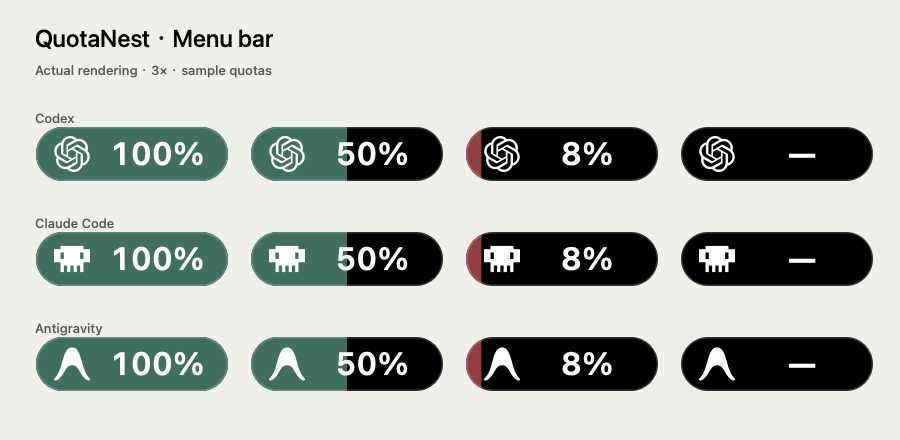
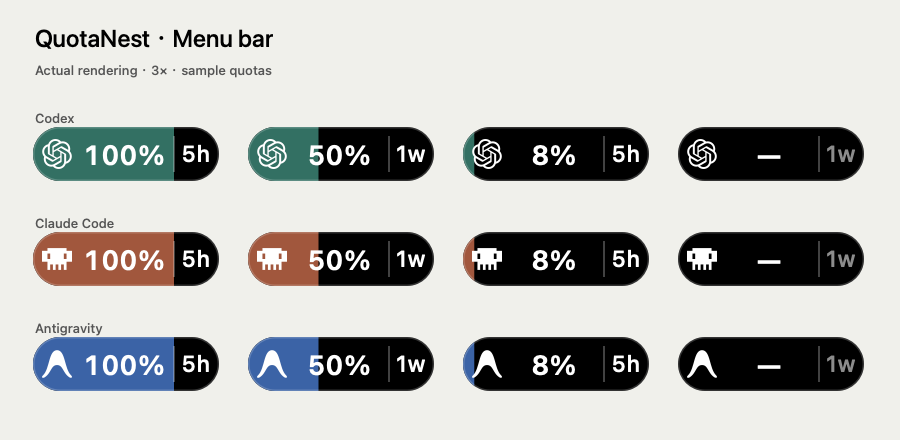
feat: compact period switch and provider accent fills

diff --git a/Sources/AppController.swift b/Sources/AppController.swift
@@ -1,7 +1,7 @@
 import AppKit
 final class AppController: NSObject, NSApplicationDelegate {
     private var status: NSStatusItem!
-    private let capsule = CapsuleView(frame: NSRect(x: 0, y: 0, width: 68, height: 24))
+    private let capsule = CapsuleView(frame: NSRect(x: 0, y: 0, width: 64, height: 24))
     private let popover = NSPopover()
     private let client = CodexClient()
     private var timer: Timer?
@@ -9,6 +9,16 @@ final class AppController: NSObject, NSApplicationDelegate {
     private let antigravityClient = AntigravityQuotaClient()
     private var readings = Dictionary(uniqueKeysWithValues: QuotaProviderID.allCases.map { ($0, ProviderReading()) })
     private var selectedProvider = QuotaProviderID(rawValue: UserDefaults.standard.string(forKey: "selectedProvider") ?? "") ?? .codex
+    private func preferredPeriod(for provider: QuotaProviderID) -> QuotaPeriod {
+        QuotaPeriod(rawValue: UserDefaults.standard.string(forKey: "quotaPeriod." + provider.rawValue) ?? "") ?? .short
+    }
+    private var displayedPeriod: QuotaPeriod? { reading.period(for: selectedProvider, preferred: preferredPeriod(for: selectedProvider)) }
+    private func switchPeriod() {
+        let periods = reading.periods(for: selectedProvider)
+        guard periods.count > 1, let current = displayedPeriod, let index = periods.firstIndex(of: current) else { return }
+        UserDefaults.standard.set(periods[(index + 1) % periods.count].rawValue, forKey: "quotaPeriod." + selectedProvider.rawValue)
+        render(); writeDiagnostics()
+    }
     private var reading: ProviderReading { readings[selectedProvider]! }
     private var snapshot: QuotaSnapshot? { reading.snapshot }
     private var lastSuccess: Date? { reading.lastSuccess }
@@ -31,12 +41,13 @@ final class AppController: NSObject, NSApplicationDelegate {
            !Bundle.main.bundlePath.hasPrefix("/Volumes/") {
             try? LoginItemManager.setEnabled(true)
         }
-        status = NSStatusBar.system.statusItem(withLength: 68)
+        status = NSStatusBar.system.statusItem(withLength: 64)
         if let button = status.button {
             capsule.frame = button.bounds; capsule.autoresizingMask = [.width, .height]
             button.addSubview(capsule)
         }
         capsule.action = { [weak self] in self?.togglePopover() }
+        capsule.periodAction = { [weak self] in self?.switchPeriod() }
         popover.behavior = .transient
         popover.animates = true
         let timer = Timer(timeInterval: interval, repeats: true) { [weak self] _ in self?.refresh() }
@@ -114,7 +125,9 @@ final class AppController: NSObject, NSApplicationDelegate {
         for provider in QuotaProviderID.allCases {
             let entry = readings[provider]!
             var value: [String: Any] = ["successfulRefreshes": entry.successes, "refreshing": entry.refreshing]
-            if let remaining = entry.remaining(for: provider) { value["remaining"] = remaining }
+            let period = entry.period(for: provider, preferred: preferredPeriod(for: provider))
+            value["period"] = period?.rawValue ?? "unknown"
+            if let remaining = entry.window(for: provider, period: period)?.remaining { value["remaining"] = remaining }
             if let date = entry.lastSuccess { value["lastSuccess"] = ISO8601DateFormatter().string(from: date) }
             if let error = entry.error { value["error"] = error }
             providers[provider.rawValue] = value
@@ -123,13 +136,20 @@ final class AppController: NSObject, NSApplicationDelegate {
         if let data = try? JSONSerialization.data(withJSONObject: value, options: [.prettyPrinted, .sortedKeys]) { try? data.write(to: stateDirectory.appendingPathComponent("status.json"), options: .atomic) }
     }
     private func render() {
-        let remaining = reading.remaining(for: selectedProvider)
+        let period = displayedPeriod
+        let remaining = reading.window(for: selectedProvider, period: period)?.remaining
+        capsule.periodText = reading.periodLabel(for: selectedProvider, period: period)
+        capsule.canSwitchPeriod = reading.periods(for: selectedProvider).count > 1
         capsule.remaining = remaining; capsule.stale = errorMessage != nil
         let value = remaining.map { String(format: "%.0f%%", floor($0)) + (errorMessage == nil ? "" : "!") } ?? (refreshing ? "···" : "—")
         capsule.provider = selectedProvider
         capsule.text = value
-        let title = "\(selectedProvider.title)\(selectedProvider == .antigravity ? " Gemini" : "") 剩余额度 \(value)" + (errorMessage == nil ? "" : "，查询失败或数据过期")
-        capsule.setAccessibilityLabel(title); capsule.toolTip = title
+        let title = "\(selectedProvider.title)\(selectedProvider == .antigravity ? " Gemini" : "") \(capsule.periodText) 剩余额度 \(value)" + (errorMessage == nil ? "" : "，查询失败或数据过期")
+        capsule.detailButton.setAccessibilityLabel(title + "，打开详情")
+        capsule.detailButton.toolTip = title
+        let periodHelp = "当前 " + capsule.periodText + (capsule.canSwitchPeriod ? "，点击切换小时 / 周额度" : "，暂无其他有效周期")
+        capsule.periodButton.setAccessibilityLabel(periodHelp)
+        capsule.periodButton.toolTip = periodHelp
         if popover.isShown { buildPopover() }
     }
     private func togglePopover() {
@@ -156,7 +176,7 @@ final class AppController: NSObject, NSApplicationDelegate {
         stack.addArrangedSubview(label(selectedProvider.title, size: 16, bold: true))
         if let selected = snapshot?.selected {
             let source = selectedProvider == .codex ? (selected.1.planType ?? "Codex 登录账号") : selectedProvider == .claude ? "本机 Claude 官方登录" : "本机 Antigravity CLI 登录"
-            stack.addArrangedSubview(label(source + (selectedProvider == .antigravity ? " · 胶囊显示 Gemini 余量" : " · 显示最低余量"), color: .secondaryLabelColor))
+            stack.addArrangedSubview(label(source + " · 胶囊：" + (selectedProvider == .antigravity ? "Gemini " : "") + reading.periodLabel(for: selectedProvider, period: displayedPeriod), color: .secondaryLabelColor))
         }
         if let errorMessage { stack.addArrangedSubview(label("⚠ \(errorMessage)" + (snapshot == nil ? "" : "\n当前百分比为上次成功查询结果。"), color: .systemOrange)) }
         if let snapshot {

diff --git a/Sources/CapsuleView.swift b/Sources/CapsuleView.swift
@@ -5,19 +5,45 @@ final class CapsuleView: NSView {
     var text = "—" { didSet { needsDisplay = true } }
     var remaining: Double? { didSet { needsDisplay = true } }
     var stale = false { didSet { needsDisplay = true } }
+    var periodText = "1w" { didSet { needsDisplay = true } }
+    var canSwitchPeriod = false { didSet { periodButton.isEnabled = canSwitchPeriod; needsDisplay = true } }
+    var periodAction: (() -> Void)?
+    let detailButton = NSButton()
+    let periodButton = NSButton()
+    var dividerX: CGFloat { bounds.width - 16 }
     var action: (() -> Void)?
 
     override init(frame: NSRect) {
         super.init(frame: frame)
-        setAccessibilityElement(true)
-        setAccessibilityRole(.button)
+        setAccessibilityElement(false)
+        for button in [detailButton, periodButton] {
+            button.title = ""; button.isBordered = false; button.isTransparent = true
+            button.target = self; addSubview(button)
+        }
+        detailButton.action = #selector(openDetails)
+        periodButton.action = #selector(switchPeriod)
+        periodButton.setAccessibilityLabel("切换额度周期")
+        periodButton.isEnabled = false
+        layoutButtons()
     }
     required init?(coder: NSCoder) { fatalError() }
-    override func mouseDown(with event: NSEvent) { action?() }
-    override func accessibilityPerformPress() -> Bool { action?(); return true }
+    @objc private func openDetails() { action?() }
+    @objc private func switchPeriod() { if canSwitchPeriod { periodAction?() } }
+    private func layoutButtons() {
+        detailButton.frame = CGRect(x: 0, y: 0, width: dividerX, height: bounds.height)
+        periodButton.frame = CGRect(x: dividerX, y: 0, width: 16, height: bounds.height)
+    }
+    override func layout() { super.layout(); layoutButtons() }
+    var accentColor: NSColor {
+        switch provider {
+        case .codex: return NSColor(srgbRed: 0.20, green: 0.44, blue: 0.39, alpha: 1)
+        case .claude: return NSColor(srgbRed: 0.63, green: 0.34, blue: 0.24, alpha: 1)
+        case .antigravity: return NSColor(srgbRed: 0.23, green: 0.39, blue: 0.65, alpha: 1)
+        }
+    }
 
     override func draw(_ dirtyRect: NSRect) {
-        let rect = CGRect(x: 2, y: (bounds.height - 18) / 2, width: bounds.width - 4, height: 18)
+        let rect = CGRect(x: 1, y: (bounds.height - 18) / 2, width: bounds.width - 2, height: 18)
         let shape = NSBezierPath(roundedRect: rect, xRadius: 9, yRadius: 9)
         NSColor.black.setFill()
         shape.fill()
@@ -26,13 +52,11 @@ final class CapsuleView: NSView {
             let fraction = min(100, max(0, remaining)) / 100
             let color: NSColor
             if stale { color = NSColor(srgbRed: 0.30, green: 0.32, blue: 0.35, alpha: 1) }
-            else if remaining < 10 { color = NSColor(srgbRed: 0.57, green: 0.25, blue: 0.26, alpha: 1) }
-            else if remaining < 20 { color = NSColor(srgbRed: 0.50, green: 0.36, blue: 0.19, alpha: 1) }
-            else { color = NSColor(srgbRed: 0.25, green: 0.43, blue: 0.38, alpha: 1) }
+            else { color = accentColor }
             NSGraphicsContext.saveGraphicsState()
             shape.addClip()
             color.setFill()
-            CGRect(x: rect.minX, y: rect.minY, width: rect.width * fraction, height: rect.height).fill()
+            CGRect(x: rect.minX, y: rect.minY, width: (dividerX - rect.minX) * fraction, height: rect.height).fill()
             NSGraphicsContext.restoreGraphicsState()
         }
 
@@ -41,15 +65,26 @@ final class CapsuleView: NSView {
         let outline = NSBezierPath(roundedRect: rect.insetBy(dx: 0.25, dy: 0.25), xRadius: 8.75, yRadius: 8.75)
         outline.lineWidth = 0.5
         outline.stroke()
-        ProviderMark.draw(provider, in: CGRect(x: rect.minX + 6, y: rect.midY - 6, width: 12, height: 12))
+        ProviderMark.draw(provider, in: CGRect(x: rect.minX + 3, y: rect.midY - 5, width: 10, height: 10))
 
         let attrs: [NSAttributedString.Key: Any] = [
-            .font: NSFont.monospacedDigitSystemFont(ofSize: 10.5, weight: .semibold),
+            .font: NSFont.monospacedDigitSystemFont(ofSize: 9, weight: .semibold),
             .foregroundColor: NSColor.white
         ]
         let label = text as NSString
         let size = label.size(withAttributes: attrs)
-        let textRect = CGRect(x: rect.minX + 21, y: rect.minY, width: rect.width - 25, height: rect.height)
+        let textRect = CGRect(x: rect.minX + 15, y: rect.minY, width: dividerX - rect.minX - 16, height: rect.height)
+        let separator = NSBezierPath()
+        separator.move(to: CGPoint(x: dividerX, y: rect.minY + 3))
+        separator.line(to: CGPoint(x: dividerX, y: rect.maxY - 3))
+        NSColor.white.withAlphaComponent(0.35).setStroke()
+        separator.lineWidth = 0.5; separator.stroke()
+        let periodAttrs: [NSAttributedString.Key: Any] = [
+            .font: NSFont.systemFont(ofSize: periodText.count > 3 ? 6 : 7.5, weight: .medium),
+            .foregroundColor: NSColor.white.withAlphaComponent(canSwitchPeriod ? 1 : 0.55)
+        ]
+        let periodSize = (periodText as NSString).size(withAttributes: periodAttrs)
+        (periodText as NSString).draw(at: CGPoint(x: (dividerX + rect.maxX) / 2 - periodSize.width / 2, y: rect.midY - periodSize.height / 2), withAttributes: periodAttrs)
         label.draw(at: CGPoint(x: textRect.midX - size.width / 2, y: rect.midY - size.height / 2), withAttributes: attrs)
     }
 }

diff --git a/Tests/Capsule/main.swift b/Tests/Capsule/main.swift
@@ -5,11 +5,11 @@ func bitmap(_ width: Int, _ height: Int) -> NSBitmapImageRep {
     NSBitmapImageRep(bitmapDataPlanes: nil, pixelsWide: width, pixelsHigh: height, bitsPerSample: 8, samplesPerPixel: 4, hasAlpha: true, isPlanar: false, colorSpaceName: .deviceRGB, bytesPerRow: 0, bitsPerPixel: 0)!
 }
 func render(_ amount: Double?, stale: Bool = false) -> NSBitmapImageRep {
-    let rep = bitmap(136, 48)
+    let rep = bitmap(128, 48)
     NSGraphicsContext.saveGraphicsState()
     NSGraphicsContext.current = NSGraphicsContext(bitmapImageRep: rep)
     NSGraphicsContext.current!.cgContext.scaleBy(x: 2, y: 2)
-    let view = CapsuleView(frame: NSRect(x: 0, y: 0, width: 68, height: 24))
+    let view = CapsuleView(frame: NSRect(x: 0, y: 0, width: 64, height: 24))
     view.remaining = amount; view.stale = stale; view.text = ""
     view.draw(view.bounds)
     NSGraphicsContext.restoreGraphicsState()
@@ -22,11 +22,11 @@ func black(_ image: NSBitmapImageRep, _ x: Int) -> Bool {
 // Sample away from the provider mark and rounded edge; validate actual rendered pixels.
 assert(black(render(0), 40))
 assert(!black(render(100), 40))
-assert(!black(render(50), 30) && black(render(50), 38))
-assert(!black(render(75), 45) && black(render(75), 55))
+assert(!black(render(50), 22) && black(render(50), 28))
+assert(!black(render(75), 34) && black(render(75), 40))
 assert(black(render(-10), 40) && !black(render(110), 40))
 assert(black(render(nil), 40) && black(render(.nan), 40))
-assert(!black(render(50, stale: true), 30) && black(render(50, stale: true), 38))
+assert(!black(render(50, stale: true), 22) && black(render(50, stale: true), 28))
 print("PASS capsule: 0/50/75/100%, clamping, unknown, invalid and stale pixel coverage")
 let rep = bitmap(900, 440)
 NSGraphicsContext.saveGraphicsState()
@@ -47,8 +47,9 @@ for (row, provider) in QuotaProviderID.allCases.enumerated() {
         let ctx = NSGraphicsContext.current!.cgContext
         ctx.translateBy(x: CGFloat(30 + col * 215), y: y - 15)
         ctx.scaleBy(x: 3, y: 3)
-        let view = CapsuleView(frame: NSRect(x: 0, y: 0, width: 68, height: 24))
+        let view = CapsuleView(frame: NSRect(x: 0, y: 0, width: 64, height: 24))
         view.provider = provider; view.remaining = amount
+        view.periodText = col % 2 == 0 ? "5h" : "1w"; view.canSwitchPeriod = amount != nil
         view.text = amount.map { String(format: "%.0f%%", $0) } ?? "—"
         view.draw(view.bounds)
         NSGraphicsContext.restoreGraphicsState()
@@ -56,3 +57,19 @@ for (row, provider) in QuotaProviderID.allCases.enumerated() {
 }
 NSGraphicsContext.restoreGraphicsState()
 try rep.representation(using: .png, properties: [:])!.write(to: URL(fileURLWithPath: ".build/capsule-preview.png"))
+
+let interactive = CapsuleView(frame: CGRect(x: 0, y: 0, width: 64, height: 24))
+var details = 0, switches = 0
+interactive.action = { details += 1 }; interactive.periodAction = { switches += 1 }
+interactive.canSwitchPeriod = true
+interactive.detailButton.performClick(nil)
+interactive.periodButton.performClick(nil)
+assert(details == 1 && switches == 1)
+interactive.canSwitchPeriod = false
+interactive.periodButton.performClick(nil)
+assert(switches == 1)
+assert(interactive.detailButton.frame.maxX == interactive.periodButton.frame.minX)
+assert(interactive.periodButton.frame.maxX == 64)
+let colors = QuotaProviderID.allCases.map { provider -> NSColor in interactive.provider = provider; return interactive.accentColor }
+assert(colors[0] != colors[1] && colors[1] != colors[2] && colors[0] != colors[2])
+print("PASS independent detail/period buttons, disabled switch, 64-point layout and provider accents")

diff --git a/Sources/ProviderState.swift b/Sources/ProviderState.swift
@@ -20,3 +20,41 @@ struct ProviderReading {
         return snapshot?.buckets.compactMap { $0.remaining }.min()
     }
 }
+
+enum QuotaPeriod: String, CaseIterable {
+    case short, weekly
+    func includes(_ window: QuotaWindow) -> Bool {
+        guard let minutes = window.minutes else { return false }
+        return self == .weekly ? minutes == 10080 : minutes > 0 && minutes < 1440
+    }
+}
+extension ProviderReading {
+    func windows(for provider: QuotaProviderID) -> [QuotaWindow] {
+        let buckets: [QuotaBucket]
+        switch provider {
+        case .codex: buckets = snapshot?.selected.map { [$0.1] } ?? []
+        case .claude: buckets = snapshot?.buckets ?? []
+        case .antigravity:
+            buckets = snapshot?.buckets.filter {
+                $0.limitName?.range(of: #"\bgemini\b"#, options: [.regularExpression, .caseInsensitive]) != nil
+            } ?? []
+        }
+        return buckets.flatMap { $0.windows }.filter { $0.remaining != nil }
+    }
+    func periods(for provider: QuotaProviderID) -> [QuotaPeriod] {
+        QuotaPeriod.allCases.filter { period in windows(for: provider).contains(where: period.includes) }
+    }
+    func period(for provider: QuotaProviderID, preferred: QuotaPeriod) -> QuotaPeriod? {
+        let available = periods(for: provider)
+        return available.contains(preferred) ? preferred : available.first
+    }
+    func window(for provider: QuotaProviderID, period: QuotaPeriod?) -> QuotaWindow? {
+        guard let period else { return nil }
+        return windows(for: provider).filter(period.includes).min { ($0.remaining ?? 100) < ($1.remaining ?? 100) }
+    }
+    func periodLabel(for provider: QuotaProviderID, period: QuotaPeriod?) -> String {
+        guard let period, let minutes = window(for: provider, period: period)?.minutes else { return "—" }
+        if period == .weekly { return "1w" }
+        return minutes % 60 == 0 ? "\(minutes / 60)h" : "\(minutes)m"
+    }
+}

diff --git a/Tests/Providers/main.swift b/Tests/Providers/main.swift
@@ -24,3 +24,13 @@ expect(ProviderReading(snapshot: mixed).remaining(for: .antigravity) == 40, "Gem
 let noGemini = QuotaSnapshot(rateLimits: nil, rateLimitsByLimitId: ["other": group("Claude and GPT models", 20)])
 expect(ProviderReading(snapshot: noGemini).remaining(for: .antigravity) == nil, "Missing Gemini is unknown instead of another model quota")
 expect(ProviderReading(snapshot: mixed).remaining(for: .claude) == 0, "Claude selection retains existing aggregation")
+
+let split = ProviderReading(snapshot: mixed)
+expect(split.window(for: .antigravity, period: .short)?.remaining == 40, "Short selection uses Gemini hours only")
+expect(split.window(for: .antigravity, period: .weekly)?.remaining == 70, "Weekly selection excludes hour limits and other families")
+expect(split.periodLabel(for: .antigravity, period: .short) == "5h", "Period label follows actual window duration")
+expect(split.periods(for: .antigravity) == [.short, .weekly], "Two valid periods support switching")
+let weeklyOnly = ProviderReading(snapshot: agy)
+expect(weeklyOnly.period(for: .antigravity, preferred: .short) == .weekly, "Disabled hours fall back to available weekly period")
+expect(weeklyOnly.periods(for: .antigravity) == [.weekly], "Disabled hour window is not switchable")
+expect(ProviderReading(snapshot: noGemini).periods(for: .antigravity).isEmpty, "Other families cannot provide Gemini switch periods")

diff --git a/Sources/CodexClient.swift b/Sources/CodexClient.swift
@@ -37,7 +37,7 @@ final class CodexClient {
                     p.environment = env
                     try p.run()
                     self.process = p; self.input = stdin.fileHandleForWriting; self.output = stdout.fileHandleForReading
-                    _ = try self.request("initialize", params: ["clientInfo": ["name": "codex_quota", "title": "QuotaNest", "version": "1.4.1"]], deadline: deadline)
+                    _ = try self.request("initialize", params: ["clientInfo": ["name": "codex_quota", "title": "QuotaNest", "version": "1.5.0"]], deadline: deadline)
                     try self.send(["method": "initialized"])
                 }
                 let value = try self.request("account/rateLimits/read", params: nil, deadline: deadline)

diff --git a/README.md b/README.md
@@ -28,7 +28,7 @@ QuotaNest 是一款轻量的原生 macOS 菜单栏应用，将 **Codex、Claude 
 
 **系统要求：macOS 13 或更新版本。** DMG 内含 Intel / Apple Silicon 通用应用；对应平台的官方 CLI 需要另外安装并登录。
 
-1. 在本仓库 **[Releases](https://github.com/bloodkilory/QuotaNest/releases/latest)** 页面下载 `QuotaNest-1.4.1-universal.dmg`。
+1. 在本仓库 **[Releases](https://github.com/bloodkilory/QuotaNest/releases/latest)** 页面下载 `QuotaNest-1.5.0-universal.dmg`。
 2. 打开 DMG，将 **QuotaNest.app** 拖到 **Applications**。
 3. 推出磁盘映像，从“应用程序”打开 QuotaNest。
 4. 在菜单栏找到带平台图标的百分比胶囊，完成下面的账号登录后等待刷新。
@@ -39,7 +39,7 @@ QuotaNest 是一款轻量的原生 macOS 菜单栏应用，将 **Codex、Claude 
 下载后可对照 Release 中的 `SHA256SUMS.txt` 检查文件完整性：
 
 ```sh
-shasum -a 256 ~/Downloads/QuotaNest-1.4.1-universal.dmg
+shasum -a 256 ~/Downloads/QuotaNest-1.5.0-universal.dmg
 ```
 
 ## 从 CodexQuota 升级
@@ -69,13 +69,16 @@ OpenAI 标志、Claude Code 像素机器人和 Antigravity 标志替代字母缩
 | 平台图标 + `82%` | 当前所选平台的剩余百分比（示例值） |
 | 彩色填充 / 黑色背景 | 剩余 / 已用比例；每次查询后同步更新 |
 | 灰色填充 | 刷新失败时保留上次比例，并显示 `!` |
-| 绿色 / 橙色 / 红色 | 余量 ≥ 20% / 10%–20% / < 10% |
+| 青绿 / 陶土橙 / 蓝色 | Codex / Claude Code / Antigravity 的平台强调色 |
+| 右侧 `5h` / `1w` | 当前额度周期；点击切换小时 / 周额度 |
 | `!` | 本次刷新失败，显示的是上次成功的数据 |
 | `—` | 尚未获取到有效额度 |
 
-点击胶囊后，可切换平台、查看分组额度、重置时间、刷新状态，或点击 **立即刷新**。时间按系统当前时区显示。应用启动、电脑唤醒时也会刷新；常规刷新间隔为 180 秒，系统调度和网络可能造成延迟。
+胶囊宽度为 64 点。点击右侧竖线后的周期按钮可立即切换最近查询到的小时 / 周额度，各平台分别记住选择；首次优先小时周期，只有一种有效周期时按钮不可切换。左侧彩色进度只表示当前周期，黑色为已用，右侧按钮保持黑色。
 
-**百分比怎么计算？** Codex 使用主额度桶中各有效窗口的最低剩余值；Claude 使用各有效额度组的最低剩余值；Antigravity 默认仅显示 **Gemini** 分组内有效窗口的最低剩余值，其他模型仍在详情中展示。未获取到 Gemini 额度时显示 `—`，不会改用其他模型额度。它表示最紧张的限制，不是所有模型额度的平均值。详情中保留独立窗口；某个模型组耗尽时，其他组仍可能可用。
+点击胶囊左侧后，可切换平台、查看分组额度、重置时间、刷新状态，或点击 **立即刷新**。时间按系统当前时区显示。应用启动、电脑唤醒时也会刷新；常规刷新间隔为 180 秒，系统调度和网络可能造成延迟。
+
+**百分比怎么计算？** 按当前选择的周期计算：Codex 使用主额度桶；Claude 使用各有效额度组；Antigravity 仅使用 **Gemini** 分组。同一周期内多个有效额度窗口取最低剩余值，其他模型仍在详情中展示。未获取到 Gemini 额度时显示 `—`，不会改用其他模型额度。它表示最紧张的限制，不是所有模型额度的平均值。详情中保留独立窗口；某个模型组耗尽时，其他组仍可能可用。
 
 ## 隐私与数据
 

diff --git a/README.en.md b/README.en.md
@@ -28,9 +28,9 @@ Codex and Antigravity are discovered in `~/.local/bin`, `/opt/homebrew/bin`, and
 
 ## Use
 
-Select a provider in the popover: **Codex**, **Claude Code**, or **Antigravity**. The capsule reports the lowest remaining value among the selected provider’s applicable windows (Codex uses its main bucket; Antigravity uses Gemini groups only). If Gemini quota is unavailable, Antigravity shows `—` rather than substituting another model. All model groups remain available in the popover. It is not an average across models. Reset times use your system time zone.
+Select a provider in the popover: **Codex**, **Claude Code**, or **Antigravity**. The capsule reports the lowest remaining value among the selected period’s applicable windows (Codex uses its main bucket; Antigravity uses Gemini groups only). If Gemini quota is unavailable, Antigravity shows `—` rather than substituting another model. All model groups remain available in the popover. It is not an average across models. Reset times use your system time zone.
 
-Green means ≥20%, orange 10–20%, red <10%. `!` means refresh failed and the value is stale; `—` means no valid data yet. The app also refreshes on launch and wake. Choose **登录时启动** to launch at login, **立即刷新** to refresh, and **退出** to quit. After moving the installed app, toggle launch at login off and on to update its path.
+Provider accents are teal for Codex, terracotta for Claude and blue for Antigravity. `!` means refresh failed and the value is stale; `—` means no valid data yet. The app also refreshes on launch and wake. Choose **登录时启动** to launch at login, **立即刷新** to refresh, and **退出** to quit. After moving the installed app, toggle launch at login off and on to update its path.
 
 ## Privacy and limitations
 
@@ -56,3 +56,5 @@ Issues and pull requests are welcome. Include OS/app/CLI versions and redacted r
 [MIT License](LICENSE). Original app icon generated with AI assistance; third-party trademarks belong to their owners.
 
 The compact capsule uses provider marks instead of letter abbreviations. Its colored width tracks the remaining percentage; the depleted portion is black. A failed refresh preserves the last known fraction in gray with `!`. Updates follow real quota readings every 180 seconds.
+
+The 64-point capsule has a narrow period button after a vertical separator. Click `5h` / `1w` to switch cached hour/week quota instantly. Each provider remembers its selection; hours are preferred initially. With only one valid period the switch is disabled. Click the left portion for details. The progress fill applies only to the left portion; the period button stays black.

diff --git a/RELEASE_NOTES.md b/RELEASE_NOTES.md
@@ -1,7 +1,9 @@
-# 余度 QuotaNest 1.4.1
+# 余度 QuotaNest 1.5.0
 
-- Antigravity 菜单栏默认显示 Gemini 分组余量，避免被 Claude / GPT 等其他模型的耗尽额度影响。
-- Gemini 多个有效窗口取最低剩余值；未提供 Gemini 额度时显示 `—`。
-- 其他模型额度继续完整保留在详情中，悬停提示明确标注 Gemini。
+- 胶囊缩小至 64 点，右侧增加独立周期按钮，点击 `5h` / `1w` 快速切换小时和周额度。
+- 每个平台分别记住选择；首次优先小时窗口，只有一种有效周期时显示该周期。
+- Codex 青绿、Claude 陶土橙、Antigravity 蓝色进度，已用区域保持黑色。
+- Antigravity 继续仅显示 Gemini，详情保留所有模型和周期。
+- 补充周期选择、按钮点击及实际渲染回归测试。
 
-macOS 13+, Intel and Apple Silicon. This community build is ad-hoc signed and not Apple-notarized. See README for installation instructions.
+macOS 13+, universal Intel / Apple Silicon. Ad-hoc signed, not Apple-notarized. See README for installation instructions.
